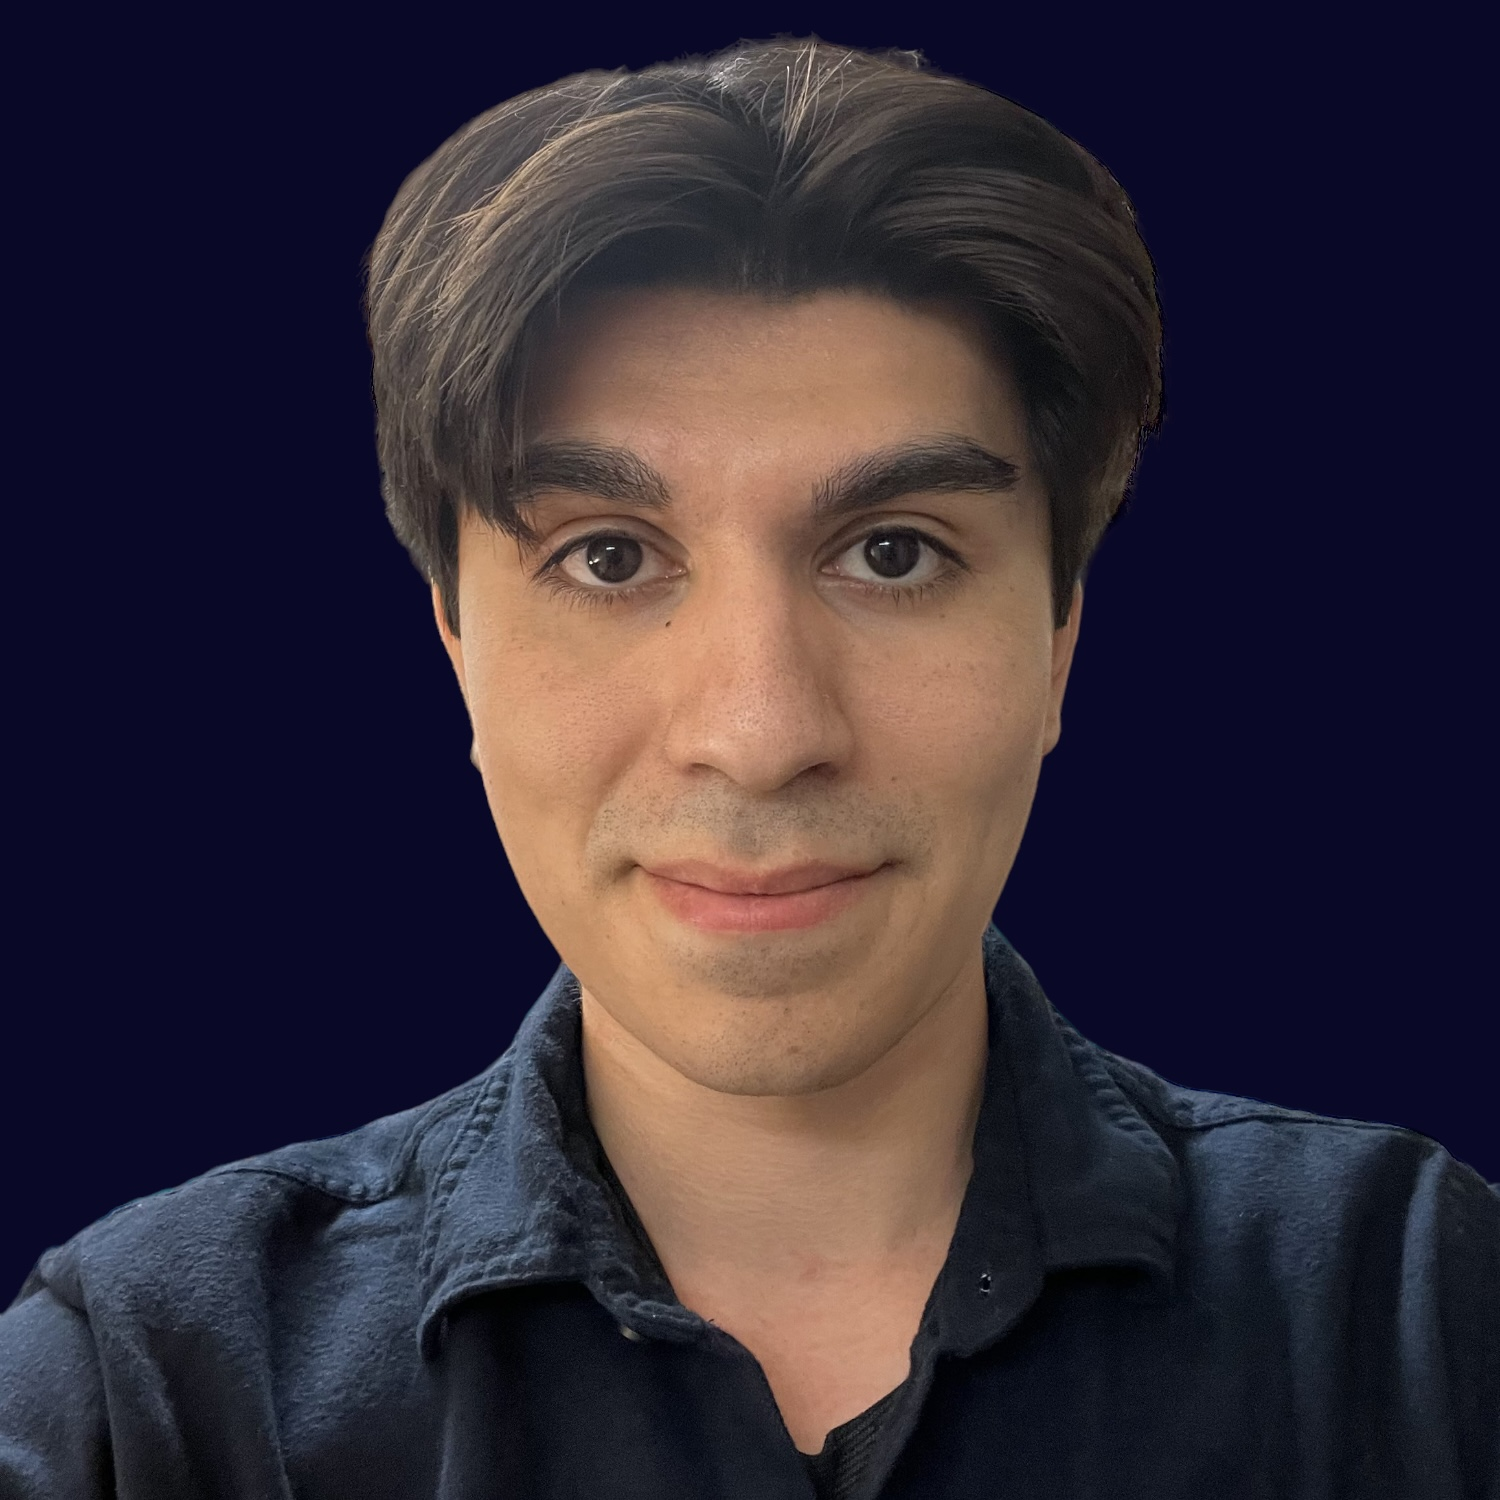
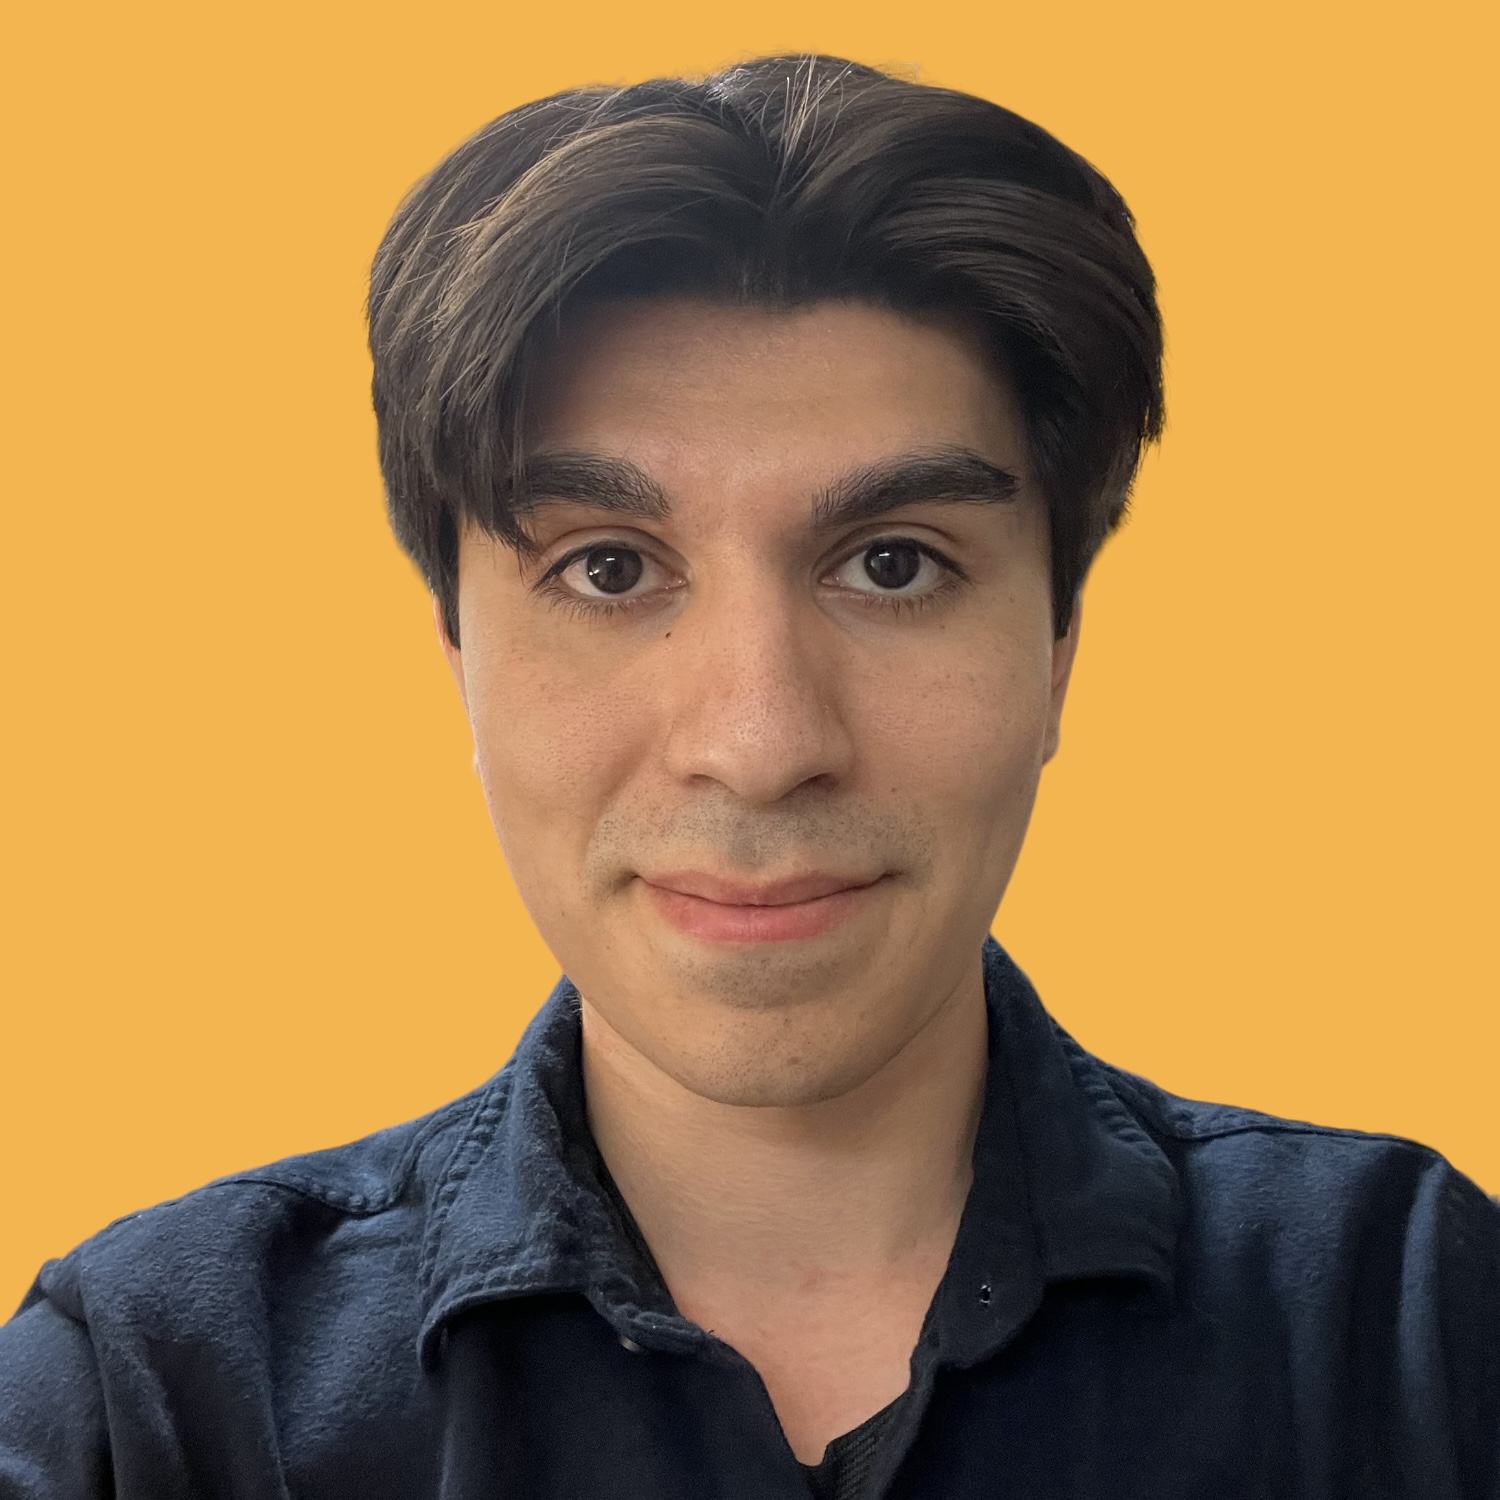
change profile pic

diff --git a/_sass/_layout.scss b/_sass/_layout.scss
@@ -29,8 +29,7 @@ body.sticky-bottom-footer {
 // Profile
 .profile {
   img {
-    border-radius: 30px;
-    width: 50%;
+    width: 100%;
   }
 }
 
